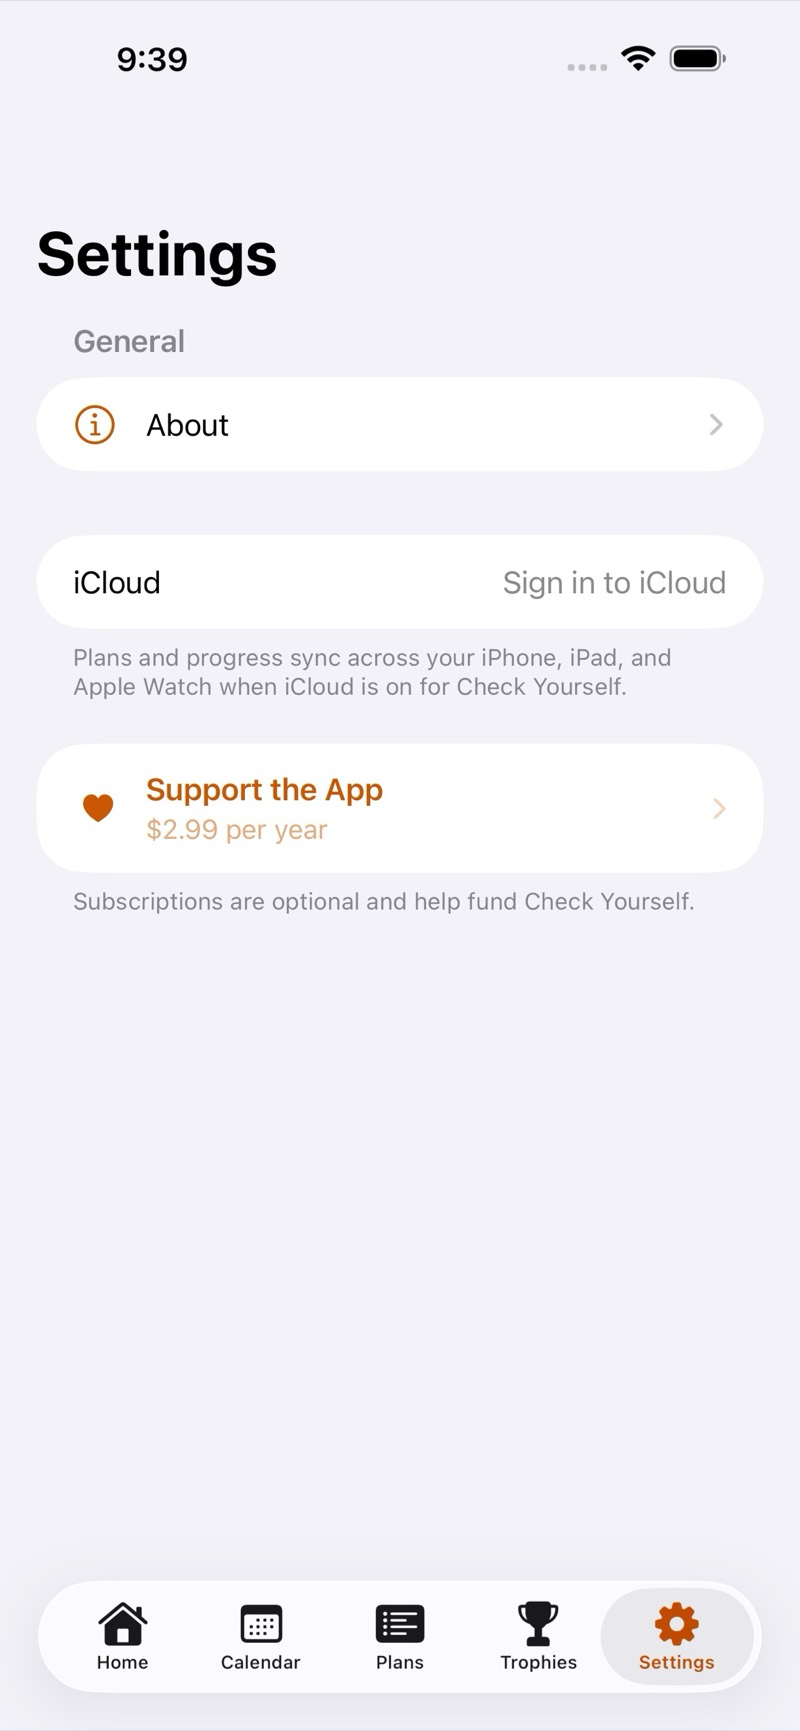
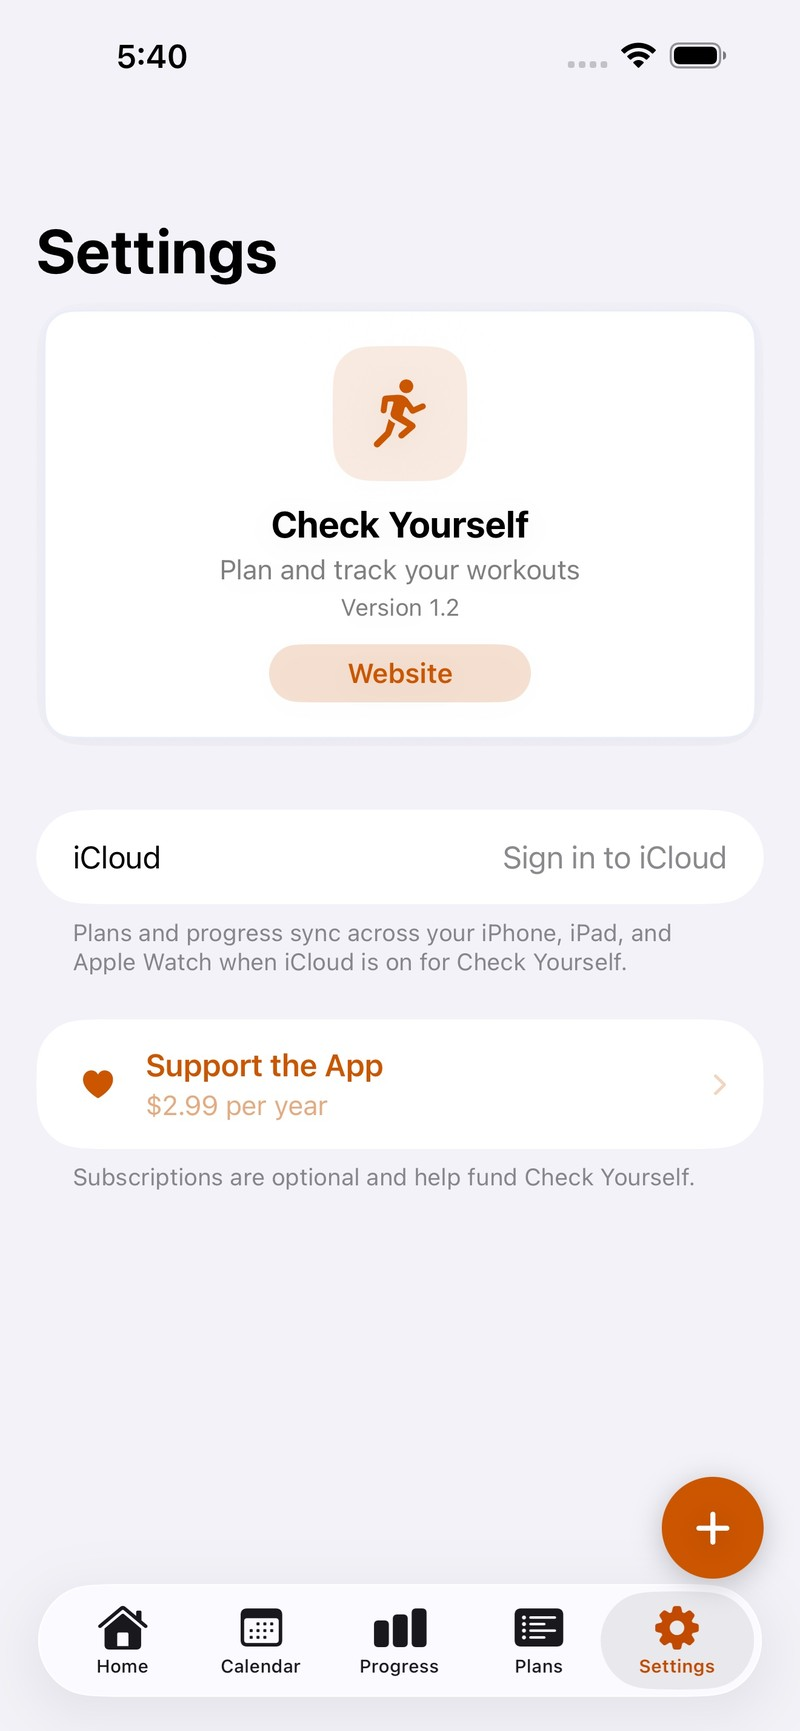
Show Apple Intelligence, Progress, and Quick Tasks on the marketing site.
Keep the screenshots current with the 1.2 app so the landing page and How to guide match what people install.

diff --git a/how-to/index.html b/how-to/index.html
@@ -4,7 +4,7 @@
   <meta charset="utf-8">
   <meta name="viewport" content="width=device-width, initial-scale=1">
   <title>How to use Check Yourself</title>
-  <meta name="description" content="A short guide to plans, the calendar, Home Screen widgets, and Apple Watch in Check Yourself.">
+  <meta name="description" content="A short guide to Apple Intelligence, plans, Quick Tasks, the calendar, widgets, and Apple Watch in Check Yourself.">
   <link rel="icon" href="../images/icon.svg" type="image/svg+xml">
   <link rel="stylesheet" href="../styles.css">
 </head>
@@ -21,14 +21,14 @@
     <header class="guide-hero">
       <p class="kicker">Guide</p>
       <h1>How to use Check Yourself</h1>
-      <p class="lede">Apply a plan, check off the day, and keep the same schedule on iPhone, iPad, Watch, and widgets.</p>
+      <p class="lede">Apply a plan, check off the day, or describe what you want and let Apple Intelligence build it. The same schedule stays on iPhone, iPad, Watch, and widgets.</p>
     </header>
 
     <article class="step">
       <div class="step-copy">
         <p class="kicker">1</p>
         <h2>Pick a plan</h2>
-        <p>Open the <strong>Plans</strong> tab. Bundled plans cover lifting, running, and mindfulness. Tap one to see the days, then tap <strong>Apply Plan</strong> to put it on your calendar.</p>
+        <p>Open the <strong>Plans</strong> tab. Bundled plans cover lifting, running, cycling, and mindfulness. A sparkle on the icon means it was built or edited with Apple Intelligence. Tap a plan to see the days, then tap <strong>Apply Plan</strong> to put it on your calendar. You can turn on a daily reminder when you apply it.</p>
       </div>
       <div class="step-shots">
         <figure class="shot">
@@ -53,8 +53,35 @@
     <article class="step">
       <div class="step-copy">
         <p class="kicker">2</p>
+        <h2>Build with Apple Intelligence</h2>
+        <p>On iOS 26 with Apple Intelligence turned on, tap <strong>Add Plan</strong>, then <strong>Build with Apple Intelligence</strong>. Describe the plan and how long it should run. Day names are the workouts; the app already numbers the days.</p>
+        <p>You can also tap <strong>Edit with Apple Intelligence</strong> on a template, or on an in-progress plan from Progress, to change remaining days without rewriting everything by hand. Edits to an applied plan do not change the template on the Plans tab.</p>
+      </div>
+      <div class="step-shots">
+        <figure class="shot">
+          <div class="device phone">
+            <div class="device-screen">
+              <img src="../images/plan-builder.jpg" width="800" height="1731" alt="New Plan builder with Apple Intelligence">
+            </div>
+          </div>
+          <figcaption>New plan</figcaption>
+        </figure>
+        <figure class="shot">
+          <div class="device phone">
+            <div class="device-screen">
+              <img src="../images/apple-intelligence.jpg" width="800" height="1731" alt="Apple Intelligence prompt">
+            </div>
+          </div>
+          <figcaption>Describe it</figcaption>
+        </figure>
+      </div>
+    </article>
+
+    <article class="step">
+      <div class="step-copy">
+        <p class="kicker">3</p>
         <h2>See what’s today</h2>
-        <p><strong>Home</strong> shows Today, Upcoming, Recent, and Progress. Tap the arrows in the corner to reorder those cards. Tap a workout to open it.</p>
+        <p><strong>Home</strong> shows Today, Upcoming, Recent, and Progress. Tap the arrows in the corner to reorder those cards. Tap a workout to open it. The plus button adds a Quick Task from any screen.</p>
       </div>
       <div class="step-shots">
         <figure class="shot">
@@ -78,15 +105,15 @@
 
     <article class="step">
       <div class="step-copy">
-        <p class="kicker">3</p>
+        <p class="kicker">4</p>
         <h2>Check it off</h2>
-        <p>On a workout, add notes if you want, then tap <strong>Mark as Complete</strong> or <strong>Mark as Missed</strong>. Completed days get a check. Missed days stay in Recent and plan history.</p>
+        <p>On a workout, add notes or photos if you want, then tap <strong>Mark as Complete</strong> or <strong>Mark as Missed</strong>. Completed days get a check. Missed days stay in Recent and plan history.</p>
       </div>
       <div class="step-shots">
         <figure class="shot">
           <div class="device phone">
             <div class="device-screen">
-              <img src="../images/task-detail.jpg" width="800" height="1731" alt="Workout detail with complete and missed">
+              <img src="../images/task-detail.jpg" width="800" height="1731" alt="Workout detail with notes, photos, complete, and missed">
             </div>
           </div>
           <figcaption>Workout</figcaption>
@@ -96,9 +123,9 @@
 
     <article class="step">
       <div class="step-copy">
-        <p class="kicker">4</p>
+        <p class="kicker">5</p>
         <h2>Follow the calendar</h2>
-        <p><strong>Calendar</strong> is the full schedule. Use <strong>Today</strong> to jump back. Check off a day from the list, or open it for notes.</p>
+        <p><strong>Calendar</strong> is the full schedule. Use <strong>Today</strong> to jump back. Check off a day from the list, or open it for notes and photos.</p>
       </div>
       <div class="step-shots">
         <figure class="shot">
@@ -114,18 +141,18 @@
 
     <article class="step">
       <div class="step-copy">
-        <p class="kicker">5</p>
-        <h2>Watch trophies fill in</h2>
-        <p><strong>Trophies</strong> tracks each applied plan. Open a plan to see history, filter remaining vs completed, and read your notes.</p>
+        <p class="kicker">6</p>
+        <h2>Watch progress</h2>
+        <p><strong>Progress</strong> lists in-progress plans, a Quick Tasks card, and trophies for plans you finish. Open a plan to see history, filter remaining vs completed, edit remaining days, or turn the daily reminder on or off.</p>
       </div>
       <div class="step-shots">
         <figure class="shot">
           <div class="device phone">
             <div class="device-screen">
-              <img src="../images/trophies.jpg" width="800" height="1731" alt="Trophies">
+              <img src="../images/progress.jpg" width="800" height="1731" alt="Progress tab">
             </div>
           </div>
-          <figcaption>Trophies</figcaption>
+          <figcaption>Progress</figcaption>
         </figure>
         <figure class="shot">
           <div class="device phone">
@@ -140,9 +167,9 @@
 
     <article class="step">
       <div class="step-copy">
-        <p class="kicker">6</p>
+        <p class="kicker">7</p>
         <h2>Make your own</h2>
-        <p>Tap <strong>+</strong> on Plans to build a routine: name, icon, daily or weekly repeat, and each day’s details. You can also import a CSV from the plan editor.</p>
+        <p>Tap <strong>Add Plan</strong> to build a routine: name, icon, daily or weekly repeat, and each day’s details. Tap the moon to mark a rest day. You can also import a CSV from the plan editor.</p>
       </div>
       <div class="step-shots">
         <figure class="shot">
@@ -166,10 +193,28 @@
 
     <article class="step">
       <div class="step-copy">
-        <p class="kicker">7</p>
+        <p class="kicker">8</p>
+        <h2>Add a Quick Task</h2>
+        <p>The plus button on every screen — and on Apple Watch — adds a one-off task with a due date and an optional reminder. Quick Tasks show up in Progress and do not belong to a training plan.</p>
+      </div>
+      <div class="step-shots">
+        <figure class="shot">
+          <div class="device phone">
+            <div class="device-screen">
+              <img src="../images/progress.jpg" width="800" height="1731" alt="Progress with Quick Tasks">
+            </div>
+          </div>
+          <figcaption>Quick Tasks</figcaption>
+        </figure>
+      </div>
+    </article>
+
+    <article class="step">
+      <div class="step-copy">
+        <p class="kicker">9</p>
         <h2>Add Home Screen widgets</h2>
         <p>Touch and hold the Home Screen, tap <strong>Edit</strong>, then <strong>Add Widget</strong>, and choose Check Yourself.</p>
-        <p><strong>Upcoming</strong> shows what’s next and can mark a workout complete. <strong>Progress</strong> shows how far you are through a plan and opens Trophies.</p>
+        <p><strong>Upcoming</strong> shows what’s next and can mark a workout complete. <strong>Progress</strong> shows how far you are through a plan and opens the Progress tab.</p>
       </div>
       <div class="widget-shelf">
         <article class="ios-widget">
@@ -204,9 +249,9 @@
 
     <article class="step">
       <div class="step-copy">
-        <p class="kicker">8</p>
+        <p class="kicker">10</p>
         <h2>Use it from your wrist</h2>
-        <p>On Apple Watch, swipe between Home, Calendar, Trophies, and Settings. Tap the circle next to a workout to mark it complete. Changes sync with iPhone and iPad over iCloud.</p>
+        <p>On Apple Watch, swipe between Home, Calendar, Progress, and Settings. Tap the plus button to add a Quick Task. Tap the circle next to a workout to mark it complete. Changes sync with iPhone and iPad over iCloud.</p>
       </div>
       <div class="step-shots">
         <figure class="shot shot-watch">
@@ -236,19 +281,19 @@
         <figure class="shot shot-watch">
           <div class="device watch">
             <div class="device-screen">
-              <img src="../images/watch-trophies.jpg" width="422" height="514" alt="Watch Trophies">
+              <img src="../images/watch-progress.jpg" width="422" height="514" alt="Watch Progress">
             </div>
           </div>
-          <figcaption>Trophies</figcaption>
+          <figcaption>Progress</figcaption>
         </figure>
       </div>
     </article>
 
     <article class="step">
       <div class="step-copy">
-        <p class="kicker">9</p>
+        <p class="kicker">11</p>
         <h2>Keep devices in sync</h2>
-        <p>Turn on iCloud for Check Yourself in Settings. Plans and progress then sync across iPhone, iPad, and Apple Watch.</p>
+        <p>Turn on iCloud for Check Yourself in Settings. Plans, photos, Quick Tasks, and progress then sync across iPhone, iPad, and Apple Watch.</p>
       </div>
       <div class="step-shots">
         <figure class="shot">

diff --git a/index.html b/index.html
@@ -4,7 +4,7 @@
   <meta charset="utf-8">
   <meta name="viewport" content="width=device-width, initial-scale=1">
   <title>Check Yourself — Plan and track your workouts</title>
-  <meta name="description" content="Check Yourself is a workout planner for iPhone, iPad, and Apple Watch. Build a plan, check off the day, and keep progress on your devices.">
+  <meta name="description" content="Check Yourself is a workout planner for iPhone, iPad, and Apple Watch. Build a plan yourself, or describe it and let Apple Intelligence fill in the days. No ads, no tracking.">
   <link rel="icon" href="images/icon.svg" type="image/svg+xml">
   <link rel="apple-touch-icon" href="images/icon.svg">
   <link rel="stylesheet" href="styles.css">
@@ -24,26 +24,41 @@
       <div>
         <p class="kicker">iPhone, iPad, and Apple Watch</p>
         <h1>Check Yourself</h1>
-        <p class="lede">Plan your workouts, check them off, and see your progress — with no ads and no tracking. Your plans stay on your devices, and sync over iCloud when you want them to.</p>
+        <p class="lede">Plan your workouts, check them off, and see your progress — with no ads and no tracking. On iOS 26, describe a plan in plain language and <strong>Apple Intelligence</strong> fills in the days, on your device.</p>
       </div>
     </section>
 
     <section class="features" aria-label="What it does">
+      <article class="feature feature-ai">
+        <div class="ai-copy">
+          <p class="kicker">Apple Intelligence</p>
+          <h2>Describe the plan. Get the days.</h2>
+          <p>Write something like “8 week novice cycling, 3 rides a week with rest days.” Apple Intelligence builds the plan on your iPhone — then you can edit a template or the remaining days of a plan that’s already underway. Needs iOS 26 and Apple Intelligence turned on. Nothing is sent to me.</p>
+        </div>
+        <figure class="shot">
+          <div class="device phone">
+            <div class="device-screen">
+              <img src="images/apple-intelligence.jpg" width="800" height="1731" alt="Apple Intelligence plan builder on iPhone">
+            </div>
+          </div>
+          <figcaption>Build with Apple Intelligence</figcaption>
+        </figure>
+      </article>
       <article class="feature">
         <h2>Build a plan</h2>
-        <p>Create your own routine or start from bundled plans for lifting, running, and mindfulness.</p>
+        <p>Create your own routine, start from bundled plans, or import a CSV. Edit remaining days of an applied plan without changing the template.</p>
       </article>
       <article class="feature">
         <h2>See the week</h2>
-        <p>Home and Calendar show what’s today, what’s next, and what you already finished.</p>
+        <p>Home and Calendar show what’s today, what’s next, and what you already finished. Reorder the Home cards to match how you train.</p>
       </article>
       <article class="feature">
         <h2>Check it off</h2>
-        <p>Mark workouts complete, add notes, and watch trophies fill in as a plan gets done.</p>
+        <p>Mark workouts complete, add notes and photos, and use Quick Tasks for one-off items. Optional reminders keep the day on your radar.</p>
       </article>
       <article class="feature">
         <h2>Keep it with you</h2>
-        <p>Widgets on the Home Screen and a Watch app so you can update from wherever you train.</p>
+        <p>Widgets on the Home Screen and a Watch app so you can update from wherever you train. Progress, plans, and trophies stay in sync over iCloud.</p>
       </article>
     </section>
 
@@ -71,7 +86,7 @@
       <figure class="shot">
         <div class="device phone">
           <div class="device-screen">
-            <img src="images/plans.jpg" width="800" height="1731" alt="iPhone Plans list">
+            <img src="images/plans.jpg" width="800" height="1731" alt="iPhone Plans list with Apple Intelligence badge">
           </div>
         </div>
         <figcaption>Plans</figcaption>
@@ -79,10 +94,26 @@
       <figure class="shot">
         <div class="device phone">
           <div class="device-screen">
-            <img src="images/trophies.jpg" width="800" height="1731" alt="iPhone Trophies screen">
+            <img src="images/progress.jpg" width="800" height="1731" alt="iPhone Progress tab with in-progress plans and Quick Tasks">
           </div>
         </div>
-        <figcaption>Trophies</figcaption>
+        <figcaption>Progress</figcaption>
+      </figure>
+      <figure class="shot">
+        <div class="device phone">
+          <div class="device-screen">
+            <img src="images/apple-intelligence.jpg" width="800" height="1731" alt="Apple Intelligence sheet for generating a plan">
+          </div>
+        </div>
+        <figcaption>Apple Intelligence</figcaption>
+      </figure>
+      <figure class="shot">
+        <div class="device phone">
+          <div class="device-screen">
+            <img src="images/task-detail.jpg" width="800" height="1731" alt="Workout detail with notes and photos">
+          </div>
+        </div>
+        <figcaption>Workout</figcaption>
       </figure>
     </div>
 
@@ -118,10 +149,18 @@
       <figure class="shot shot-ipad">
         <div class="device ipad">
           <div class="device-screen">
-            <img src="images/ipad-trophies.jpg" width="900" height="1200" alt="iPad Trophies">
+            <img src="images/ipad-progress.jpg" width="900" height="1200" alt="iPad Progress tab">
           </div>
         </div>
-        <figcaption>Trophies</figcaption>
+        <figcaption>Progress</figcaption>
+      </figure>
+      <figure class="shot shot-ipad">
+        <div class="device ipad">
+          <div class="device-screen">
+            <img src="images/ipad-apple-intelligence.jpg" width="900" height="1200" alt="Apple Intelligence on iPad">
+          </div>
+        </div>
+        <figcaption>Apple Intelligence</figcaption>
       </figure>
     </div>
 
@@ -129,7 +168,7 @@
       <h2>On Apple Watch</h2>
       <p>Watch</p>
     </div>
-    <p class="section-lede">Swipe between Home, Calendar, Trophies, and Settings. Mark a workout complete on your wrist and it syncs back to iPhone and iPad.</p>
+    <p class="section-lede">Swipe between Home, Calendar, Progress, and Settings. Add a Quick Task from the plus button, mark a workout complete on your wrist, and it syncs back to iPhone and iPad.</p>
     <div class="shots">
       <figure class="shot shot-watch">
         <div class="device watch">
@@ -158,10 +197,10 @@
       <figure class="shot shot-watch">
         <div class="device watch">
           <div class="device-screen">
-            <img src="images/watch-trophies.jpg" width="422" height="514" alt="Apple Watch Trophies">
+            <img src="images/watch-progress.jpg" width="422" height="514" alt="Apple Watch Progress">
           </div>
         </div>
-        <figcaption>Trophies</figcaption>
+        <figcaption>Progress</figcaption>
       </figure>
       <figure class="shot shot-watch">
         <div class="device watch">
@@ -212,7 +251,7 @@
         </div>
       </article>
     </div>
-    <p class="widget-note">Touch and hold the Home Screen, tap <strong>Edit</strong>, then <strong>Add Widget</strong>, and choose Check Yourself. Upcoming can mark a workout complete. Progress opens Trophies. Inside the app, the Home tab has its own Today, Upcoming, Recent, and Progress cards you can reorder.</p>
+    <p class="widget-note">Touch and hold the Home Screen, tap <strong>Edit</strong>, then <strong>Add Widget</strong>, and choose Check Yourself. Upcoming can mark a workout complete. Progress opens the Progress tab. Inside the app, the Home tab has its own Today, Upcoming, Recent, and Progress cards you can reorder. The plus button adds a Quick Task from any screen.</p>
 
     <footer class="site-footer">
       <nav>

diff --git a/styles.css b/styles.css
@@ -151,6 +151,45 @@ h2 {
   line-height: 1.45;
 }
 
+.feature-ai {
+  grid-column: 1 / -1;
+  display: flex;
+  flex-wrap: wrap;
+  align-items: center;
+  gap: 1.15rem 1.6rem;
+  padding: 1.2rem 1.25rem 1.3rem;
+  border: 1.5px solid var(--accent);
+  background:
+    radial-gradient(circle at 100% 0%, rgba(204, 85, 0, 0.16), transparent 48%),
+    var(--card);
+}
+
+.feature-ai .ai-copy {
+  flex: 1 1 18rem;
+}
+
+.feature-ai .kicker {
+  color: var(--accent);
+}
+
+.feature-ai h2 {
+  font-size: 1.35rem;
+}
+
+.feature-ai p {
+  max-width: 38rem;
+}
+
+.feature-ai .shot {
+  width: min(200px, 52vw);
+  margin: 0;
+}
+
+.hero .lede strong {
+  color: var(--fg);
+  font-weight: 600;
+}
+
 .shots-head {
   display: flex;
   align-items: baseline;
